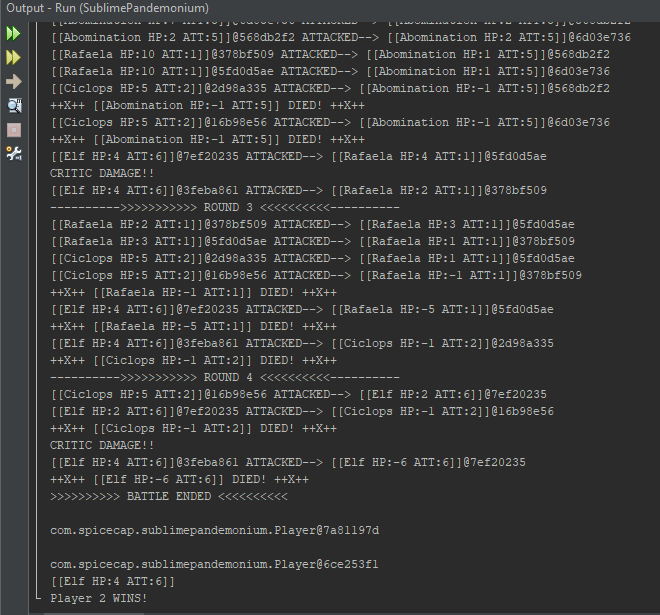
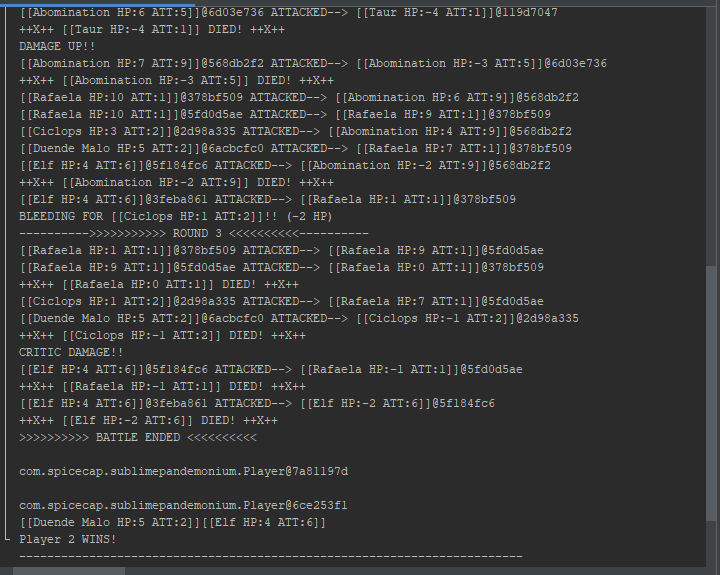
Arreglo de excepciones de sangrado

Changed region(s): [[0.0, 0.0, 1.0, 1.0], [0.5152, 0.7391, 0.7879, 0.7687]]

diff --git a/src/main/java/com/spicecap/sublimepandemonium/SublimePandemonium.java b/src/main/java/com/spicecap/sublimepandemonium/SublimePandemonium.java
@@ -55,9 +55,9 @@ public class SublimePandemonium {
             
             for (int i = 0; i < 5; i++) {
                 if (!player1.deck[i].isDead()) 
-                    player1.deck[i].attack(player1.deck, player2.deck);
+                    player1.deck[i].attack(player2.deck);
                 if (!player2.deck[i].isDead()) 
-                    player2.deck[i].attack(player2.deck, player1.deck);
+                    player2.deck[i].attack(player1.deck);
             }
             
             player1.cardsLeft = 5;
@@ -65,16 +65,26 @@ public class SublimePandemonium {
             
             for (int i = 0; i < 5; i++) {
                 
-                if (player1.deck[i].bleeding > 0) {
+                if (player1.deck[i].bleeding > 0 && !player1.deck[i].dead) {
                     player1.deck[i].hp -= 2;
                     player1.deck[i].bleeding -= 1;
                     System.out.println("BLEEDING FOR " + player1.deck[i] + "!! (-2 HP)");
+                    
+                    if (player1.deck[i].isDead()) { //Por si lo mata el sangrado
+                        System.out.println("++X++ " + player1.deck[i] + " DIED DUE TO BLEEDING! ++X++");
+                        player1.deck[i].dead = true; 
+                    } 
                 }
                     
-                if (player2.deck[i].bleeding > 0) {
+                if (player2.deck[i].bleeding > 0 && !player2.deck[i].dead) {
                     player2.deck[i].hp -= 2;
                     player2.deck[i].bleeding -= 1;
                     System.out.println("BLEEDING FOR " + player2.deck[i] + "!! (-2 HP)");
+                    
+                    if (player2.deck[i].isDead()) { //Por si lo mata el sangrado
+                        System.out.println("++X++ " + player2.deck[i] + " DIED DUE TO BLEEDING! ++X++");
+                        player2.deck[i].dead = true; 
+                    }
                 }
             }
             

diff --git a/src/main/java/com/spicecap/sublimepandemonium/Card.java b/src/main/java/com/spicecap/sublimepandemonium/Card.java
@@ -68,7 +68,7 @@ public class Card {
     }
     
     
-    public void attack(Card[] deckOrig, Card[] deckDest) {
+    public void attack(Card[] deckDest) {
         
         if (this.habbility == Habbility.DMG_UP) {
             if (posibilidad() <= 30) {
@@ -98,7 +98,7 @@ public class Card {
         }
         
         if (this.habbility == Habbility.BLEED) {
-            if (posibilidad() <= 25) {
+            if (posibilidad() <= 35) {
                 
                 int[] array = new int[5];
                 int puntero = 0;
@@ -110,13 +110,17 @@ public class Card {
                     }
                 }
                 
-                Random ran = new Random();
-                int afortunado = ran.nextInt(puntero - 1) + 0;
+                puntero -= 1;
                 
-                deckDest[array[afortunado]].bleeding = 2;
-                
-                System.out.println("BLEEDING CAUSED TO " + deckDest[array[afortunado]] + " FOR TWO TURNS!!");
-                
+                if (puntero == 0) {
+                    deckDest[array[0]].bleeding = 2;
+                    System.out.println("BLEEDING CAUSED TO " + deckDest[array[0]] + " FOR TWO TURNS!!");
+                } else {
+                    Random ran = new Random();
+                    int afortunado = ran.nextInt(puntero) + 0;
+                    deckDest[array[afortunado]].bleeding = 2;
+                    System.out.println("BLEEDING CAUSED TO " + deckDest[array[afortunado]] + " FOR TWO TURNS!!");
+                }
             }
         }
         
@@ -172,18 +176,5 @@ public class Card {
     }
 
     //--------------------------------------------
-    
- 
-
-    
-
-    
-    
-   
-
-   
-
-    
-    
-    
+     
 }
